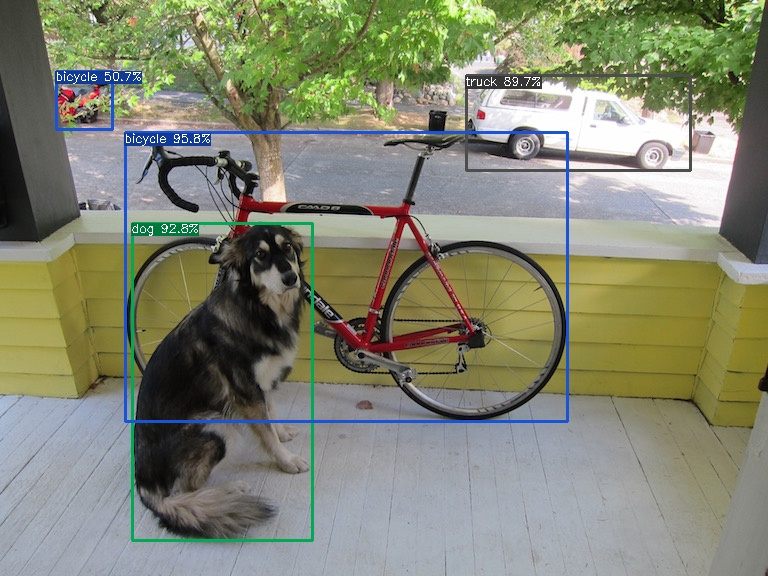
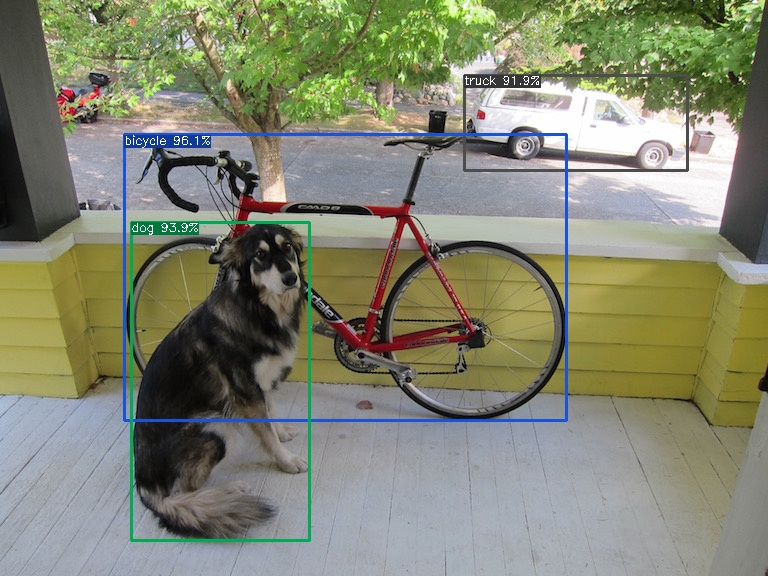
Modify the method of aspect decoding and picture of result

Changed region(s): [[0.0625, 0.0938, 0.75, 0.9375], [0.875, 0.125, 0.9062, 0.3125]]

diff --git a/RT_DETR_TensorRT/src/rt_detr_detector.cpp b/RT_DETR_TensorRT/src/rt_detr_detector.cpp
@@ -212,10 +212,10 @@ void rt_detr_detector::post_process_cpu(cv::Mat& img)
         float right  = x_center + w * 0.5f;
         float bottom = y_center + h * 0.5f;
 
-        float image_base_left   = left * (input_w / scale);
-        float image_base_top    = top * (input_w / scale);
-        float image_base_right  = right * (input_w / scale);
-        float image_base_bottom = bottom * (input_w / scale);
+        float image_base_left   = left * (input_w / ratio_w);
+        float image_base_top    = top * (input_w / ratio_h);
+        float image_base_right  = right * (input_w / ratio_w);
+        float image_base_bottom = bottom * (input_w / ratio_h);
 
         /* clip */
         image_base_left = std::min(std::max(0.0f, image_base_left), float(img.cols - 1));
